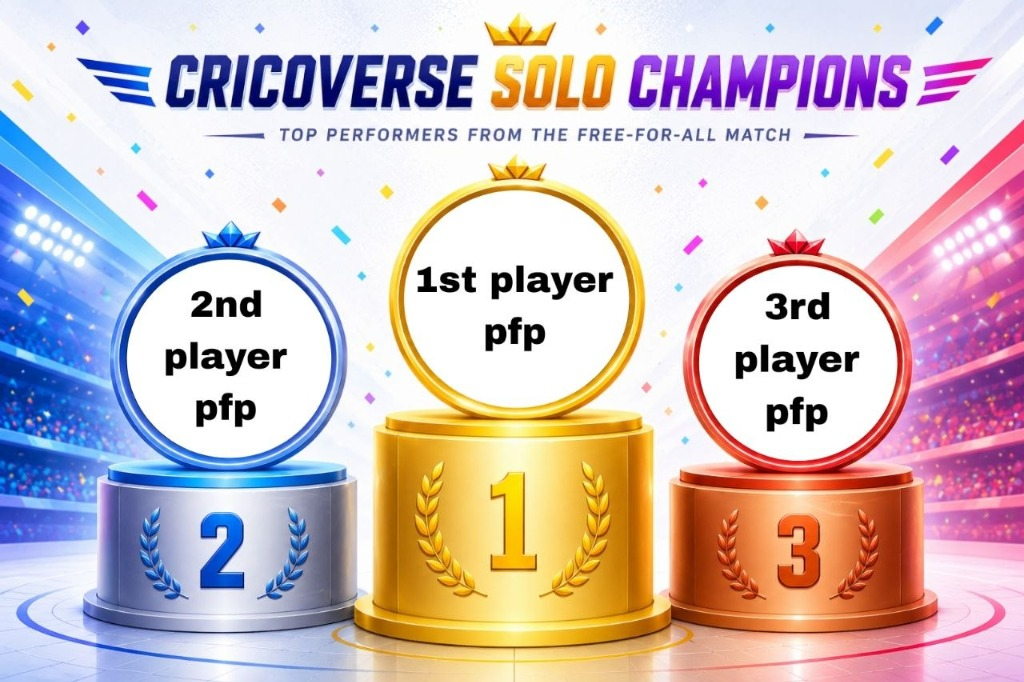
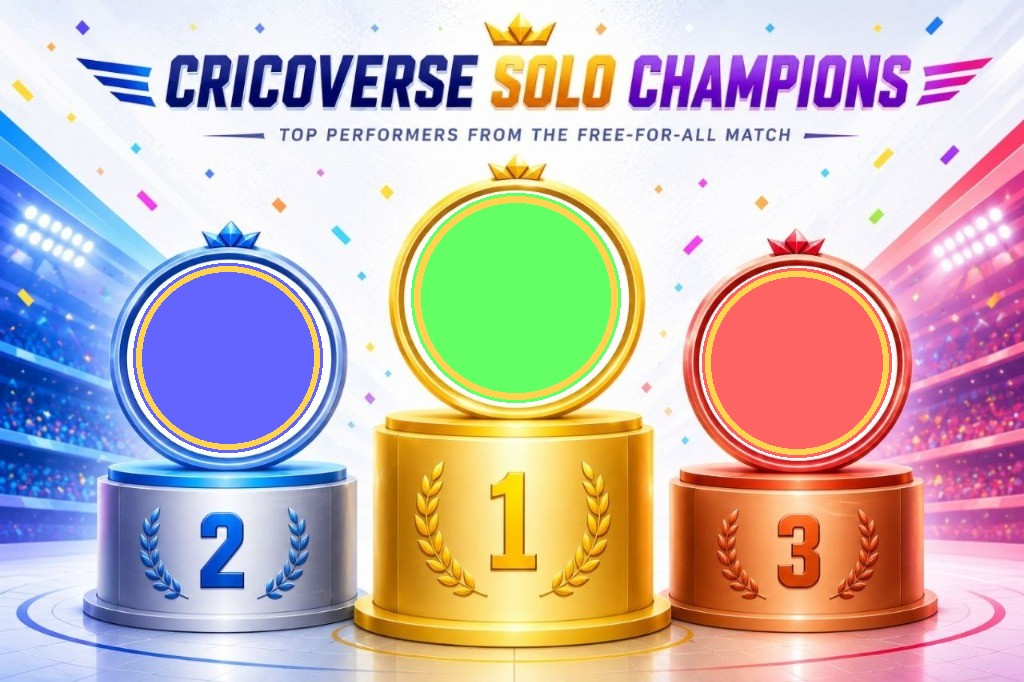
Add files via upload

Changed region(s): [[0.375, 0.2771, 0.625, 0.6158], [0.6875, 0.3695, 0.875, 0.6774], [0.125, 0.3695, 0.3125, 0.6774]]

diff --git a/cric.py b/cric.py
@@ -16161,81 +16161,94 @@ async def generate_stats_image(user_id: int, name: str, stats: dict, avatar_byte
         YELLOW = (255, 230, 60, 255)
         GREEN  = (100, 255, 140, 255)
 
-        # ── 1. PLAYER NAME — below the crown (top-center of left panel) ──
-        safe_name = (name or "Player")[:18]
-        nb = draw.textbbox((0, 0), safe_name, font=f_name)
-        nw = nb[2] - nb[0]
-        # Crown is roughly at x=90, y=10 on the left panel
-        # Name goes roughly at x=90 center, y=58
-        name_cx = 90
-        draw.text((name_cx - nw // 2, 52), safe_name, font=f_name, fill=YELLOW)
+        # ── 1. PLAYER NAME — top-left area below crown, where template shows name ──
+        # Template has name at roughly x=60, y=30 (top-left, yellow text)
+        safe_name = (name or "Player")[:20]
+        draw.text((55, 30), safe_name, font=f_name, fill=YELLOW)
 
-        # ── 2. STAT VALUES — match the icon+label positions from template ──
-        # Template left panel layout (approx pixel positions for value text):
-        # MATCHES      → y ≈ 172,  label at x≈130
-        # RUNS         → y ≈ 233
-        # WICKETS      → y ≈ 293
-        # 50 / 100     → y ≈ 352
-        # STRIKE RATE  → y ≈ 412
-        # HIGHEST SCORE→ y ≈ 471
-        val_x = 200  # right of the icon+label area
+        # ── 2. STAT VALUES — RIGHT-ALIGNED to the end of each stat row ──
+        # The template pre-prints labels (MATCHES, RUNS, WICKETS …) starting at ~x=130.
+        # Values must appear at the far right of that row (~x=370) so they NEVER
+        # overlap the pre-printed label text.
+        #
+        # Row vertical centres (based on 1024×682 template visual inspection):
+        #   MATCHES       → cy ≈ 207
+        #   RUNS          → cy ≈ 263
+        #   WICKETS       → cy ≈ 318
+        #   50 / 100      → cy ≈ 373
+        #   STRIKE RATE   → cy ≈ 428
+        #   HIGHEST SCORE → cy ≈ 483
+        #
+        # We right-align the value text so its right edge sits at x≈410,
+        # keeping it inside the left panel and well clear of the labels.
+        VAL_RIGHT_X = 410   # right edge of value text
+        ROW_FONT_SIZE = 28
+
+        try:
+            f_val = ImageFont.truetype("Roboto-Bold.ttf", ROW_FONT_SIZE)
+        except Exception:
+            f_val = ImageFont.load_default(size=ROW_FONT_SIZE)
 
         stat_rows = [
-            (stats.get("matches", 0),    172),
-            (stats.get("runs", 0),       233),
-            (stats.get("wickets", 0),    293),
-            (f"{stats.get('fifties',0)} / {stats.get('hundreds',0)}", 352),
-            (f"{stats.get('strike_rate', 0.0)}%", 412),
-            (stats.get("highest", 0),    471),
+            (str(stats.get("matches", 0)),                               207),
+            (str(stats.get("runs", 0)),                                  263),
+            (str(stats.get("wickets", 0)),                               318),
+            (f"{stats.get('fifties',0)} / {stats.get('hundreds',0)}",    373),
+            (f"{stats.get('strike_rate', 0.0):.1f}%",                    428),
+            (str(stats.get("highest", 0)),                               483),
         ]
-        for val, y in stat_rows:
-            val_str = str(val)
-            vb = draw.textbbox((0, 0), val_str, font=f_val)
-            vw = vb[2] - vb[0]
-            draw.text((val_x - vw // 2, y - 14), val_str, font=f_val, fill=WHITE)
+        for val_str, cy in stat_rows:
+            vb  = draw.textbbox((0, 0), val_str, font=f_val)
+            vw  = vb[2] - vb[0]
+            vh  = vb[3] - vb[1]
+            tx  = VAL_RIGHT_X - vw          # right-align
+            ty  = cy - vh // 2              # vertically centre on row
+            draw.text((tx, ty), val_str, font=f_val, fill=WHITE)
 
-        # ── 3. PLAYER PFP — in the big white circle on the right ──
-        # Circle center approx: cx=730, cy=341, radius≈185px (based on 1024x682 template)
-        pfp_cx, pfp_cy, pfp_r = 730, 341, 185
+        # ── 3. PLAYER PFP — in the big glowing circle on the right side ──
+        # Visual inspection of the template puts the circle at roughly:
+        #   centre-x ≈ 745,  centre-y ≈ 355,  radius ≈ 175 px  (for 1024×682)
+        pfp_cx, pfp_cy, pfp_r = 745, 355, 175
         pfp_size = pfp_r * 2
+        hq_size = pfp_size * 3  # render at 3x for crisp quality
 
-        pfp_img = Image.new("RGBA", (pfp_size, pfp_size), (200, 200, 200, 255))
+        pfp_img = Image.new("RGBA", (hq_size, hq_size), (200, 200, 200, 255))
         if avatar_bytes:
             try:
                 src = Image.open(BytesIO(avatar_bytes)).convert("RGBA")
-                src = ImageOps.fit(src, (pfp_size, pfp_size), method=Image.Resampling.LANCZOS)
+                src = ImageOps.fit(src, (hq_size, hq_size), method=Image.Resampling.LANCZOS)
                 pfp_img = src
             except Exception:
                 pass
         else:
             # Draw initials
             init_draw = ImageDraw.Draw(pfp_img)
-            init_draw.rectangle([0, 0, pfp_size, pfp_size], fill=(30, 45, 90, 255))
+            init_draw.rectangle([0, 0, hq_size, hq_size], fill=(30, 45, 90, 255))
             initials = "".join(p[:1] for p in (name or "PL").split()[:2]).upper()
             try:
-                fi = ImageFont.truetype("Roboto-Bold.ttf", pfp_size // 3)
+                fi = ImageFont.truetype("Roboto-Bold.ttf", hq_size // 3)
             except Exception:
-                fi = ImageFont.load_default(size=pfp_size // 3)
+                fi = ImageFont.load_default(size=hq_size // 3)
             ib = init_draw.textbbox((0, 0), initials, font=fi)
             init_draw.text(
-                ((pfp_size - (ib[2]-ib[0])) // 2, (pfp_size - (ib[3]-ib[1])) // 2),
+                ((hq_size - (ib[2]-ib[0])) // 2, (hq_size - (ib[3]-ib[1])) // 2),
                 initials, font=fi, fill=(255, 255, 255, 255)
             )
 
-        # Circular mask
-        mask = Image.new("L", (pfp_size, pfp_size), 0)
-        ImageDraw.Draw(mask).ellipse((0, 0, pfp_size - 1, pfp_size - 1), fill=255)
-        pfp_circle = Image.new("RGBA", (pfp_size, pfp_size), (0, 0, 0, 0))
-        pfp_circle.paste(pfp_img, (0, 0), mask)
+        # Apply circular mask at high resolution, then downsample
+        mask_hq = Image.new("L", (hq_size, hq_size), 0)
+        ImageDraw.Draw(mask_hq).ellipse((0, 0, hq_size - 1, hq_size - 1), fill=255)
+        pfp_circle_hq = Image.new("RGBA", (hq_size, hq_size), (0, 0, 0, 0))
+        pfp_circle_hq.paste(pfp_img, (0, 0), mask_hq)
+        pfp_circle = pfp_circle_hq.resize((pfp_size, pfp_size), Image.Resampling.LANCZOS)
 
         paste_x = pfp_cx - pfp_r
         paste_y = pfp_cy - pfp_r
         overlay.alpha_composite(pfp_circle, (paste_x, paste_y))
 
-        # ── 4. COMPOSITE ──
         final = Image.alpha_composite(base, overlay).convert("RGB")
         bio = BytesIO()
-        final.save(bio, "JPEG", quality=92)
+        final.save(bio, "JPEG", quality=97)
         bio.seek(0)
         return bio
 
@@ -26776,80 +26789,54 @@ async def generate_solo_top3_image(sorted_players, context=None) -> Optional[Byt
         # ── Circle paste helper ──
         def paste_circle(img_overlay, avatar_bytes, cx, cy, r, initials="?"):
             size = r * 2
-            pfp = Image.new("RGBA", (size, size), (80, 80, 80, 200))
+            # Render at 3x resolution for crisp quality, then downsample
+            hq_size = size * 3
+            pfp = Image.new("RGBA", (hq_size, hq_size), (80, 80, 80, 200))
             if avatar_bytes:
                 try:
                     src = Image.open(BytesIO(avatar_bytes)).convert("RGBA")
-                    src = ImageOps.fit(src, (size, size), method=Image.Resampling.LANCZOS)
+                    # Use high-quality Lanczos for upscaling to hq_size
+                    src = ImageOps.fit(src, (hq_size, hq_size), method=Image.Resampling.LANCZOS)
                     pfp = src
                 except Exception:
                     pass
             else:
                 d = ImageDraw.Draw(pfp)
-                d.ellipse([0, 0, size-1, size-1], fill=(30, 30, 80, 255))
+                d.ellipse([0, 0, hq_size-1, hq_size-1], fill=(30, 30, 80, 255))
                 try:
-                    fi = ImageFont.truetype("Roboto-Bold.ttf", size // 3)
+                    fi = ImageFont.truetype("Roboto-Bold.ttf", hq_size // 3)
                 except Exception:
-                    fi = ImageFont.load_default(size=size // 3)
+                    fi = ImageFont.load_default(size=hq_size // 3)
                 ib = d.textbbox((0, 0), initials[:2], font=fi)
-                d.text(((size-(ib[2]-ib[0]))//2, (size-(ib[3]-ib[1]))//2),
+                d.text(((hq_size-(ib[2]-ib[0]))//2, (hq_size-(ib[3]-ib[1]))//2),
                        initials[:2], font=fi, fill=(255, 255, 255, 255))
-            mask = Image.new("L", (size, size), 0)
-            ImageDraw.Draw(mask).ellipse((0, 0, size-1, size-1), fill=255)
-            circle = Image.new("RGBA", (size, size), (0, 0, 0, 0))
-            circle.paste(pfp, (0, 0), mask)
+            # Apply circular mask at high resolution
+            mask = Image.new("L", (hq_size, hq_size), 0)
+            ImageDraw.Draw(mask).ellipse((0, 0, hq_size-1, hq_size-1), fill=255)
+            circle_hq = Image.new("RGBA", (hq_size, hq_size), (0, 0, 0, 0))
+            circle_hq.paste(pfp, (0, 0), mask)
+            # Downsample to final size with anti-aliasing
+            circle = circle_hq.resize((size, size), Image.Resampling.LANCZOS)
             img_overlay.alpha_composite(circle, (cx - r, cy - r))
 
-        # Template layout (1024 x 682):
-        # CENTER (1st) : cx≈512, cy≈285, r≈120
-        # LEFT   (2nd) : cx≈188, cy≈315, r≈105
-        # RIGHT  (3rd) : cx≈836, cy≈330, r≈100
+        # ── Precise circle positions matched to solo_podium_template.jpg (1024×682) ──
+        # Visual inspection of the template:
+        #   1st place  (CENTER, gold ring)   : cx≈512, cy≈268, r≈118
+        #   2nd place  (LEFT,  silver ring)  : cx≈192, cy≈295, r≈103
+        #   3rd place  (RIGHT, bronze ring)  : cx≈832, cy≈310, r≈98
 
         def get_init(p):
             return (getattr(p, "first_name", "P") or "P")[:2].upper()
 
-        paste_circle(overlay, pfp_bytes[0], 512, 285, 120, get_init(top3[0]))  # 1st center
+        paste_circle(overlay, pfp_bytes[0], 512, 268, 118, get_init(top3[0]))   # 1st – center
         if len(top3) > 1:
-            paste_circle(overlay, pfp_bytes[1], 188, 315, 105, get_init(top3[1]))  # 2nd left
+            paste_circle(overlay, pfp_bytes[1], 192, 295, 103, get_init(top3[1]))  # 2nd – left
         if len(top3) > 2:
-            paste_circle(overlay, pfp_bytes[2], 836, 330, 100, get_init(top3[2]))  # 3rd right
-
-        # ── Player names on podium ──
-        try:
-            f_name = ImageFont.truetype("Roboto-Bold.ttf", 26)
-            f_score = ImageFont.truetype("Roboto-Bold.ttf", 22)
-        except Exception:
-            f_name = ImageFont.load_default(size=26)
-            f_score = ImageFont.load_default(size=22)
-
-        WHITE = (255, 255, 255, 255)
-        GOLD  = (255, 215, 0, 255)
-
-        name_positions = [
-            (512, 420),  # 1st
-            (188, 435),  # 2nd
-            (836, 445),  # 3rd
-        ]
-        score_positions = [
-            (512, 452),  # 1st
-            (188, 467),  # 2nd
-            (836, 477),  # 3rd
-        ]
-
-        for i, p in enumerate(top3):
-            nx, ny = name_positions[i]
-            pname = (getattr(p, "first_name", "Player") or "Player")[:14]
-            nb = draw.textbbox((0, 0), pname, font=f_name)
-            draw.text((nx - (nb[2]-nb[0])//2, ny), pname, font=f_name, fill=GOLD if i == 0 else WHITE)
-
-            sx, sy = score_positions[i]
-            score_str = f"{getattr(p, 'runs', 0)} ({getattr(p, 'balls_faced', 0)})"
-            sb = draw.textbbox((0, 0), score_str, font=f_score)
-            draw.text((sx - (sb[2]-sb[0])//2, sy), score_str, font=f_score, fill=WHITE)
+            paste_circle(overlay, pfp_bytes[2], 832, 310,  98, get_init(top3[2]))  # 3rd – right
 
         final = Image.alpha_composite(base, overlay).convert("RGB")
         bio = BytesIO()
-        final.save(bio, "JPEG", quality=92)
+        final.save(bio, "JPEG", quality=97)
         bio.seek(0)
         return bio
 